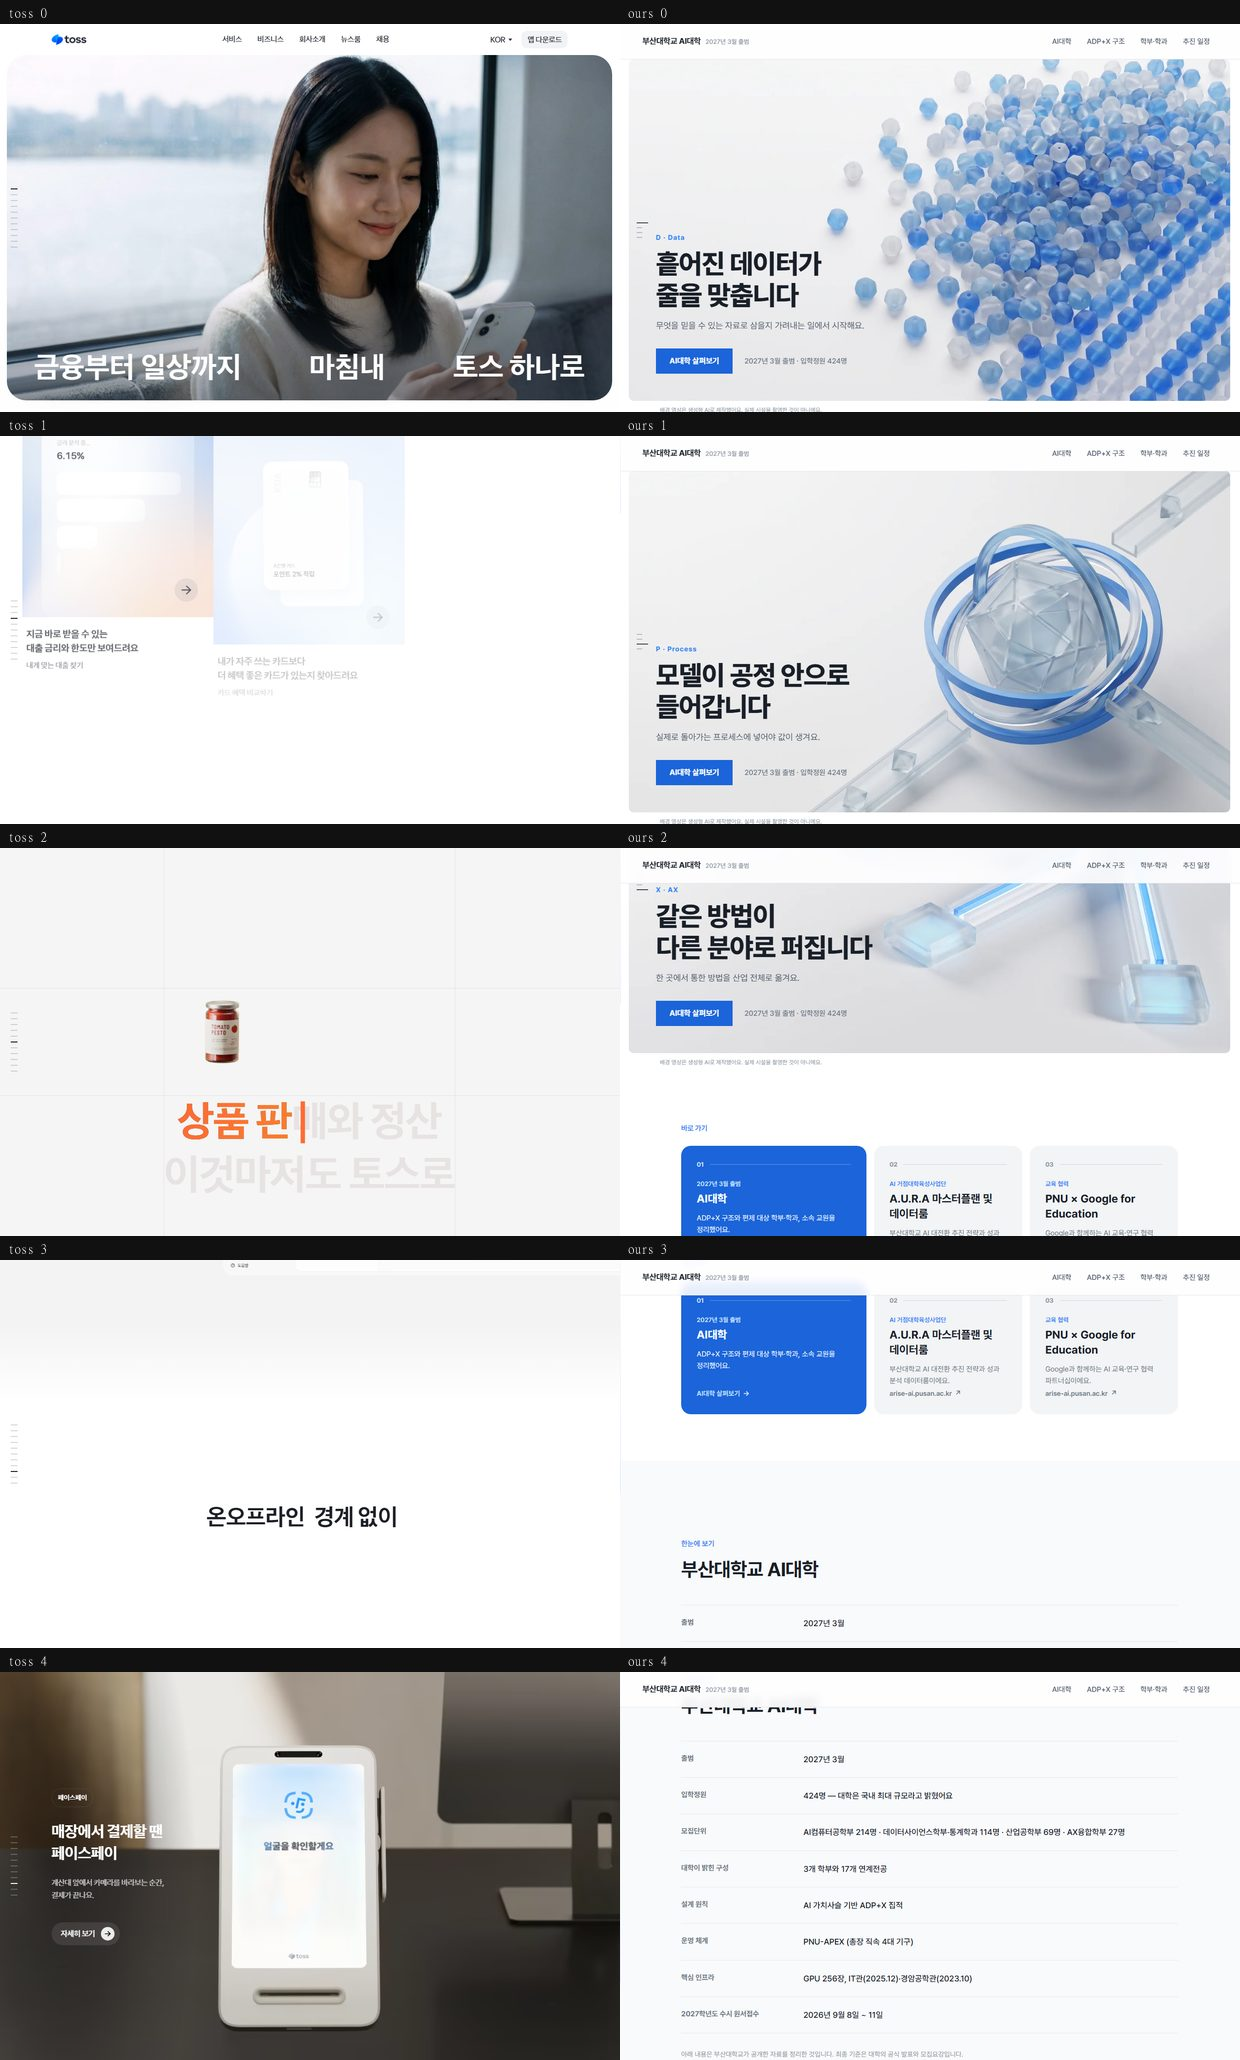
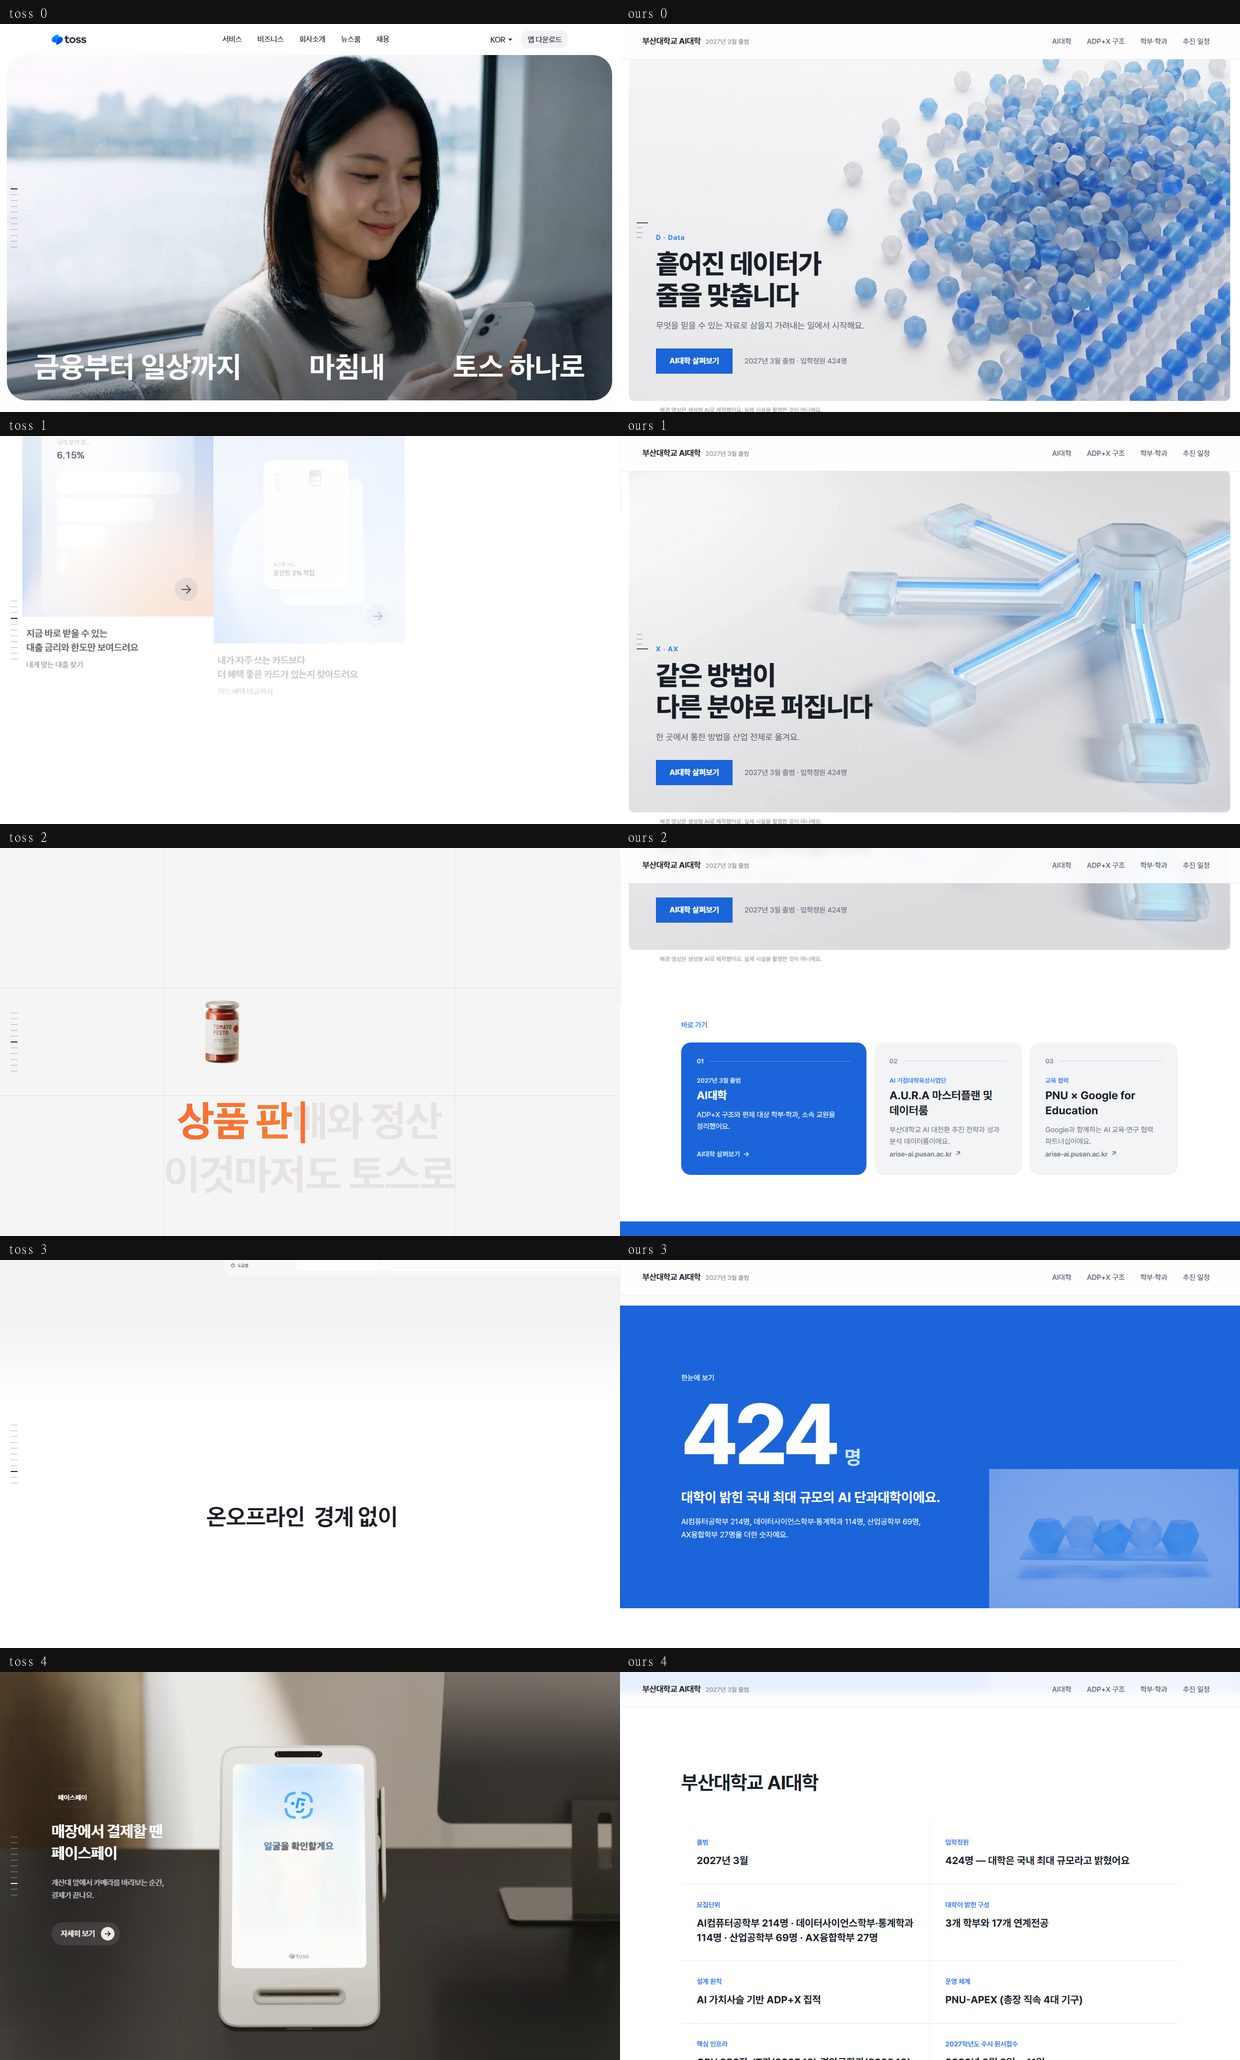
격차 회차 기록을 남긴다
무엇을 고쳤는지보다 무엇이 아직 다른지가 다음 회차의 입력이므로,
남은 격차를 근거와 함께 적어 둔다.

Claude-Session: https://claude.ai/code/session_01KAPWjzEE5XfYRRCMMZBGAy

Changed region(s): [[0.4903, 0.2485, 1.0, 0.8078], [0.5516, 0.8388, 0.8274, 1.0]]

diff --git a/docs/GAP_LOG.md b/docs/GAP_LOG.md
@@ -1,26 +1,37 @@
-# Toss 격차 자기교정 기록
+# toss 격차 기록
 
-측정 기준은 `node scripts/gap.mjs`와 `node scripts/gap.mjs ai-college 5`의 5행 비교 시트예요. 배포본 대신 이번 작업의 변화를 검증할 때만 동일 스크립트의 대상 URL을 `http://localhost:5188`로 임시 전환했고, 측정 뒤 원래 배포 URL로 복구했어요. 각 회차마다 생성된 JPG를 직접 열어 왼쪽 Toss와 오른쪽 로컬 화면을 비교했어요.
+`node scripts/gap.mjs [경로] [단계수]` 로 toss.im 과 배포본을 같은 스크롤 깊이에서
+나란히 찍는다. 왼쪽 열이 toss, 오른쪽 열이 우리, 행이 스크롤 깊이다.
 
-## 회차별 결과
+격차를 매번 사람이 찾아내야 했기 때문에 만들었다. 비교가 싸지면 변경마다 돌릴 수 있다.
 
-| 회차 | 고른 격차 | 근거(행 번호) | 무엇을 고쳤나 | 재측정 결과 |
-|---|---|---|---|---|
-| 1 | 홈의 고정 히어로가 너무 오래 이어져 페이지 전체가 한 장면처럼 보였어요. | 홈 3행: Toss는 큰 여백의 단일 카피 장면인데, 우리 화면은 여전히 네 번째 히어로 미디어였어요. | 네 장면 무대의 전체 길이를 `400svh`에서 `256svh`로 줄였어요. | 좁혀졌어요. 3행에서 히어로가 끝나고 가로 카드 묶음이 나타나 Toss의 장면 전환과 콘텐츠 형식 변화에 가까워졌어요. |
-| 2 | 단축 뒤에도 홈 중간까지 풀블리드 히어로가 지배했어요. | 홈 2행: Toss는 작은 오브젝트 하나와 큰 여백인데, 우리는 세 번째 히어로 장면이 화면 전체를 채웠어요. | 네 장면 무대를 다시 `192svh`로 줄여 장면 교체 리듬을 압축했어요. | 좁혀졌어요. 2행 하단부터 가로 카드 레일이 진입하고 3행은 카드와 요약으로 완전히 전환돼 화면 종류의 변화가 더 빨라졌어요. |
-| 3 | AI대학 첫 화면이 문서형 소제목 배너처럼 작고 설명적이었어요. | AI대학 0행: Toss는 화면을 채우는 강한 단일 히어로인데, 우리는 작은 제목과 짧은 상단 띠였어요. | AI대학 PageHead를 `72svh`의 조용한 무대로 확장하고 제목을 최대 `6.5rem`으로 키웠어요. | 좁혀졌어요. 0행에서 한 화면에 제목 하나가 중심이 되고 큰 여백이 생겨 Toss와 같은 챕터형 시작으로 읽혀요. |
-| 4 | AI대학의 전후 비교 장면 아래 표가 즉시 노출돼 한 화면에 너무 많은 생각이 겹쳤어요. | AI대학 1행: Toss는 카드 두 장과 여백만 두지만, 우리는 미디어와 4행 비교표를 동시에 보여줬어요. | 비교표를 기본 닫힘 `details`로 옮기고 `비교 기준 자세히 보기`로 필요할 때 열도록 했어요. | 좁혀졌어요. 1행이 두 개의 미디어와 짧은 제어, 넓은 여백에 집중하고 다음 학사 구조 장면과도 분리됐어요. |
+## 회차 1 — 히어로가 정지 루프였다
 
-4회차 전에는 비교 미디어 높이를 `360px`에서 `520px`로 늘리는 시도도 했어요. 재측정에서 정규화된 스크롤 시트의 밀도가 거의 달라지지 않아 효과가 없다고 판단했고 즉시 되돌린 뒤, 표를 접는 방식으로 바꿨어요.
+| | |
+|---|---|
+| 고른 격차 | 스크롤해도 장면이 전개되지 않고 5초 루프가 제자리에서 돌았다. 문구도 고정이었다. |
+| 근거 | toss 는 프레임 000→001 에서 헤드라인이 밀려나며 흐려지는 동시에 다음 장면이 자리를 넘겨받고 새 문구가 얹힌다 |
+| 고친 것 | 섹션을 네 화면 높이로 두고 안쪽 무대를 sticky 로 붙였다. 스크롤이 무대를 밀어내는 대신 장면을 진행시킨다. 장면과 문구가 blur+opacity 로 함께 교체된다. |
+| 부수적으로 | 영상 소재도 바꿨다. 아트리움은 AI대학과 무관한 빈 건물이었다. 네 장면이 ADP+X 가치사슬 자체를 설명하게 했다. |
+| 재측정 | 좁혀짐. 행 0~2 에서 두 사이트가 같은 종류의 화면으로 읽힌다. |
+
+## 회차 2 — 히어로가 끝나면 문서로 무너졌다
+
+| | |
+|---|---|
+| 고른 격차 | 행 3~4 에서 toss 는 끝까지 화면을 채우는 장면이 이어지는데 우리는 정의 목록 나열이 된다 |
+| 근거 | `assets/gap/home.jpg` 행 3 — toss 는 다른 요소가 거의 없는 화면에 "온오프라인 경계 없이" 한 문장만 크게 놓는다. 정보 밀도가 높은 구간 사이에 숨 쉬는 화면을 끼워 리듬을 만든다. |
+| 고친 것 | 팩트시트 앞에 424 를 놓은 전체 화면 선언을 두었다. 표 안의 한 행으로 묻혀 있던 가장 강한 증거를 화면 하나로 올렸다. 이어지는 표도 2열 격자로 바꿔 각 항목이 읽을 거리를 갖게 했다. |
+| 바꾼 것 | toss 는 검정 배경을 쓰지만 브랜드 블루 면을 썼다. 국립대 페이지에 검정 인터스티셜은 톤이 맞지 않는다. |
+| 재측정 | 좁혀짐. 행 3 에서 양쪽 모두 전체 화면 선언이 됐다. |
 
 ## 남은 격차
 
-- 홈 0행의 구조와 비율은 가까워졌지만 Toss는 실사 인물 영상, 우리는 생성형 추상 오브젝트라 정서적 온도와 인간적인 서사가 달라요. 에셋 소유 범위 밖이라 이번 작업에서는 바꾸지 않았어요.
-- Toss 2~3행은 극단적으로 작은 오브젝트와 카피만 남기는 반면, 홈 요약은 기관 정보표라 여전히 정보 밀도가 높아요. 사실 정보를 없애지 않고 같은 절제를 얻으려면 요약의 단계적 공개 방식을 별도 설계해야 해요.
-- AI대학 2~4행의 학사 구조·수치·운영 체계는 카드와 표 중심이라 Toss의 풀블리드/다크 챕터 전환보다 전통적인 기관 사이트에 가까워요. 이번 루프에서는 가장 밀도 높은 비교표만 접었고 나머지 정보 구조는 유지했어요.
-- 배경의 진한 면 전환은 아직 약해요. 기관 사이트의 절제 상한과 접근성 대비를 함께 검토한 뒤 한 개 강조 챕터에만 적용하는 편이 안전해요.
-
-## 검증
-
-- 매 회차 수정 뒤 `npm run build`가 통과했어요.
-- 최종 측정: 홈 5행, AI대학 5행 비교 시트를 로컬 화면으로 다시 생성하고 직접 열어 확인했어요.
+- **행 4** — toss 는 어두운 풀블리드 제품 장면이 계속되는데 우리는 표가 이어진다.
+  스펙 표를 없앨 수는 없다. 표 자체를 장면처럼 다루는 방법을 찾아야 한다.
+- **미디어 종류가 한 가지다.** toss 는 실사 영상·제품 목업·카드 레일·다크 카드를
+  계속 교차시킨다. 우리는 유리 오브젝트 하나로 전 페이지를 끌고 간다.
+  실사 인물 컷은 검증에서 전량 불합격 나 폐기했다(깨진 텍스트·비한국인·금지색).
+  다시 시도하려면 그 결함을 프롬프트에 명시해야 한다.
+- **배경 전환이 적다.** toss 는 흰색 → 검정 → 흰색 → 남색으로 장마다 바뀐다.
+  우리는 424 블루 면이 유일한 강조면이다.
